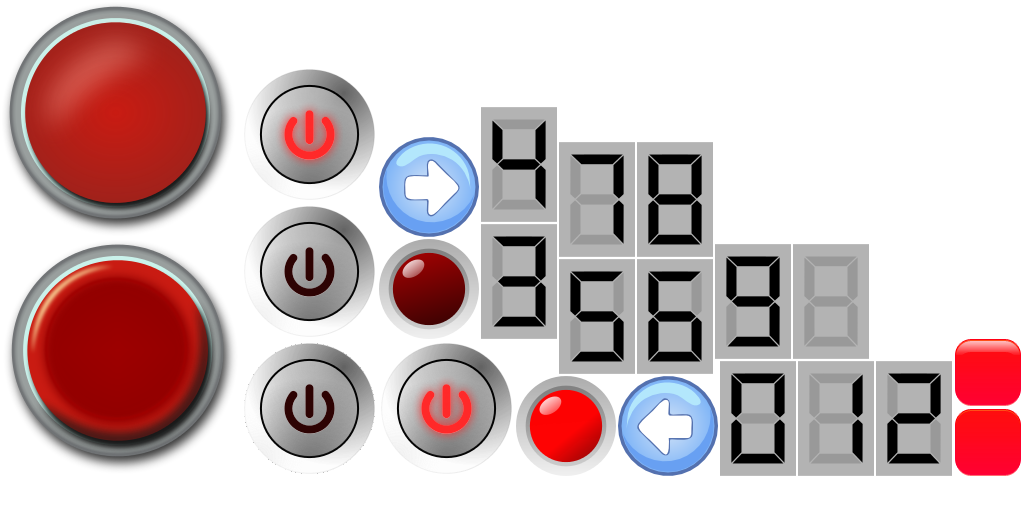
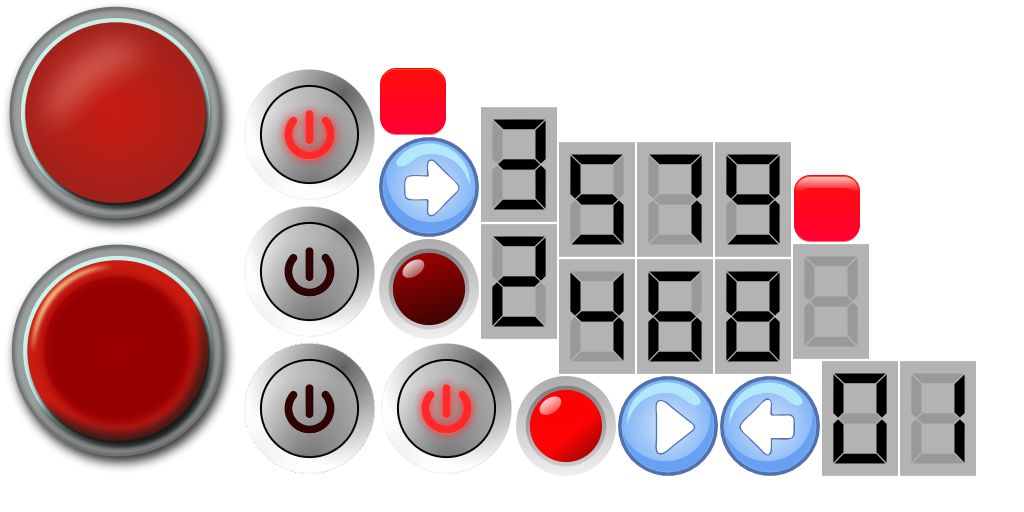
Fixes countdown

diff --git a/core/src/core/september/pushathon/gameobjects/Counter.java b/core/src/core/september/pushathon/gameobjects/Counter.java
@@ -6,6 +6,7 @@ import com.badlogic.gdx.graphics.g2d.TextureRegion;
 import core.september.foundation.AbstractGameObject;
 import core.september.foundation.Assets;
 import core.september.foundation.util.Constants;
+import core.september.pushathon.workers.GameController;
 
 public class Counter extends AbstractGameObject{
 	
@@ -23,7 +24,6 @@ public class Counter extends AbstractGameObject{
 	public TextureRegion selected;
 	protected int posDivider;
 
-	protected float elapsedTime = Constants.TIME_LEFT;
 //	@Override
 //	public void render(SpriteBatch batch) {
 //		TextureRegion reg = null;
@@ -98,7 +98,6 @@ public class Counter extends AbstractGameObject{
 	}
 	
 	public void update (float deltaTime) {
-		elapsedTime-= deltaTime;
-		chooseSelected((int)elapsedTime / posDivider % 10);
+		chooseSelected((int)GameController.timeLeft / posDivider % 10);
 	}
 }

diff --git a/core/src/core/september/pushathon/workers/GameController.java b/core/src/core/september/pushathon/workers/GameController.java
@@ -32,7 +32,7 @@ public class GameController extends InputAdapter {
 
 	private Game game;
 	public GameResources resources;
-	public float timeLeft = Constants.TIME_LEFT;
+	public static float timeLeft = Constants.TIME_LEFT;
 	// Rectangles for collision detection
 	private Rectangle r2 = new Rectangle();
 
